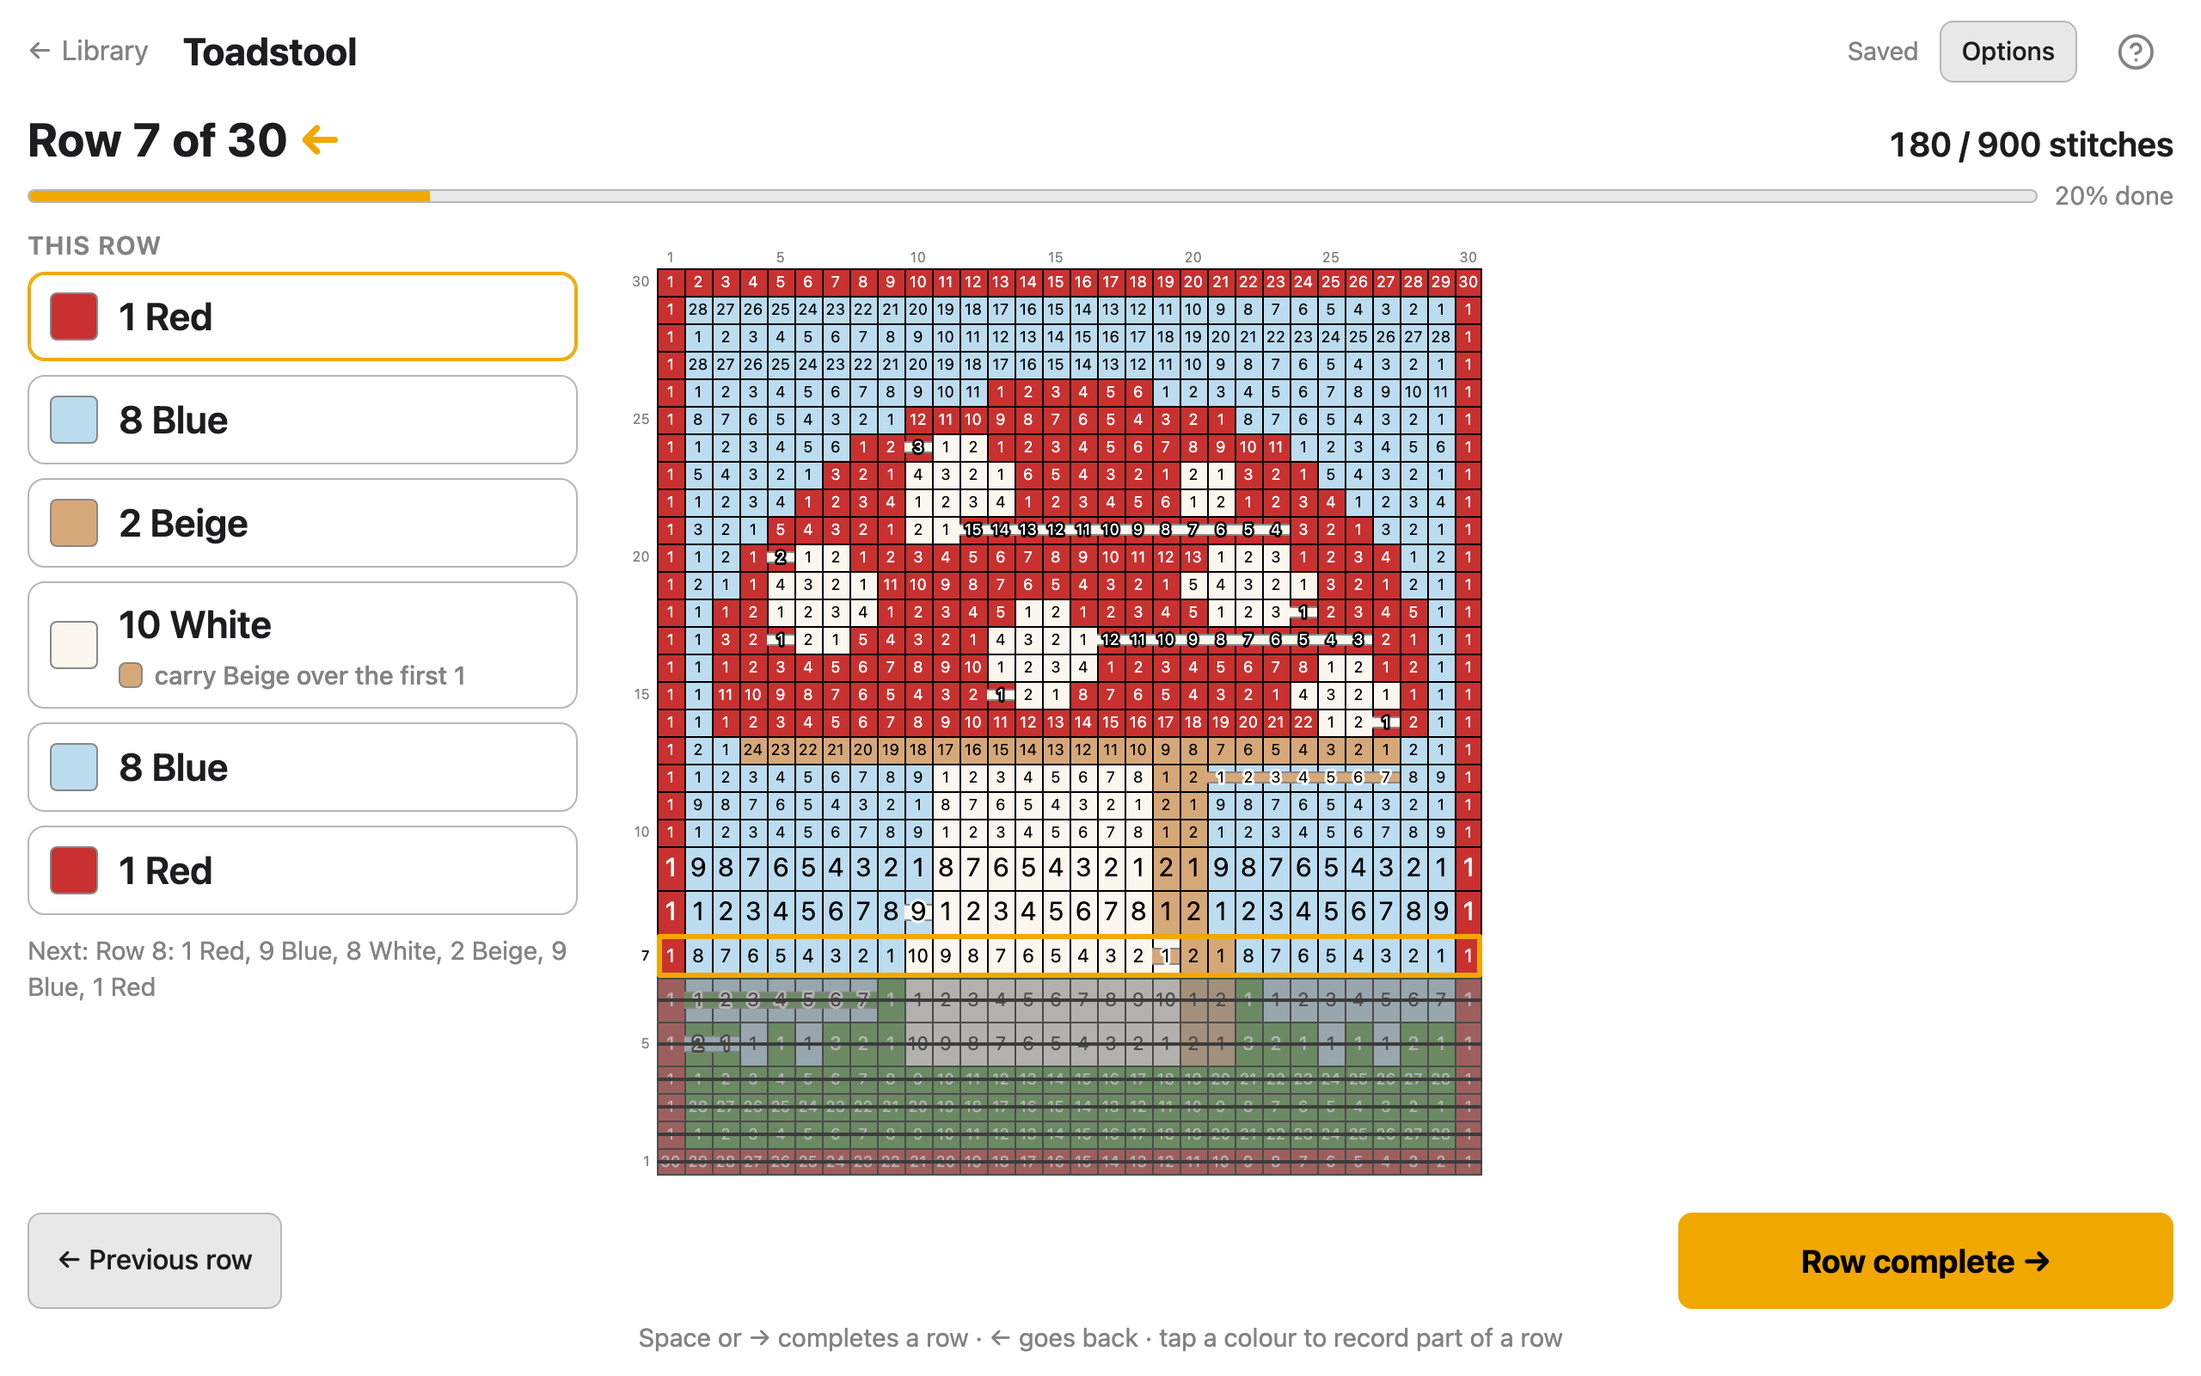
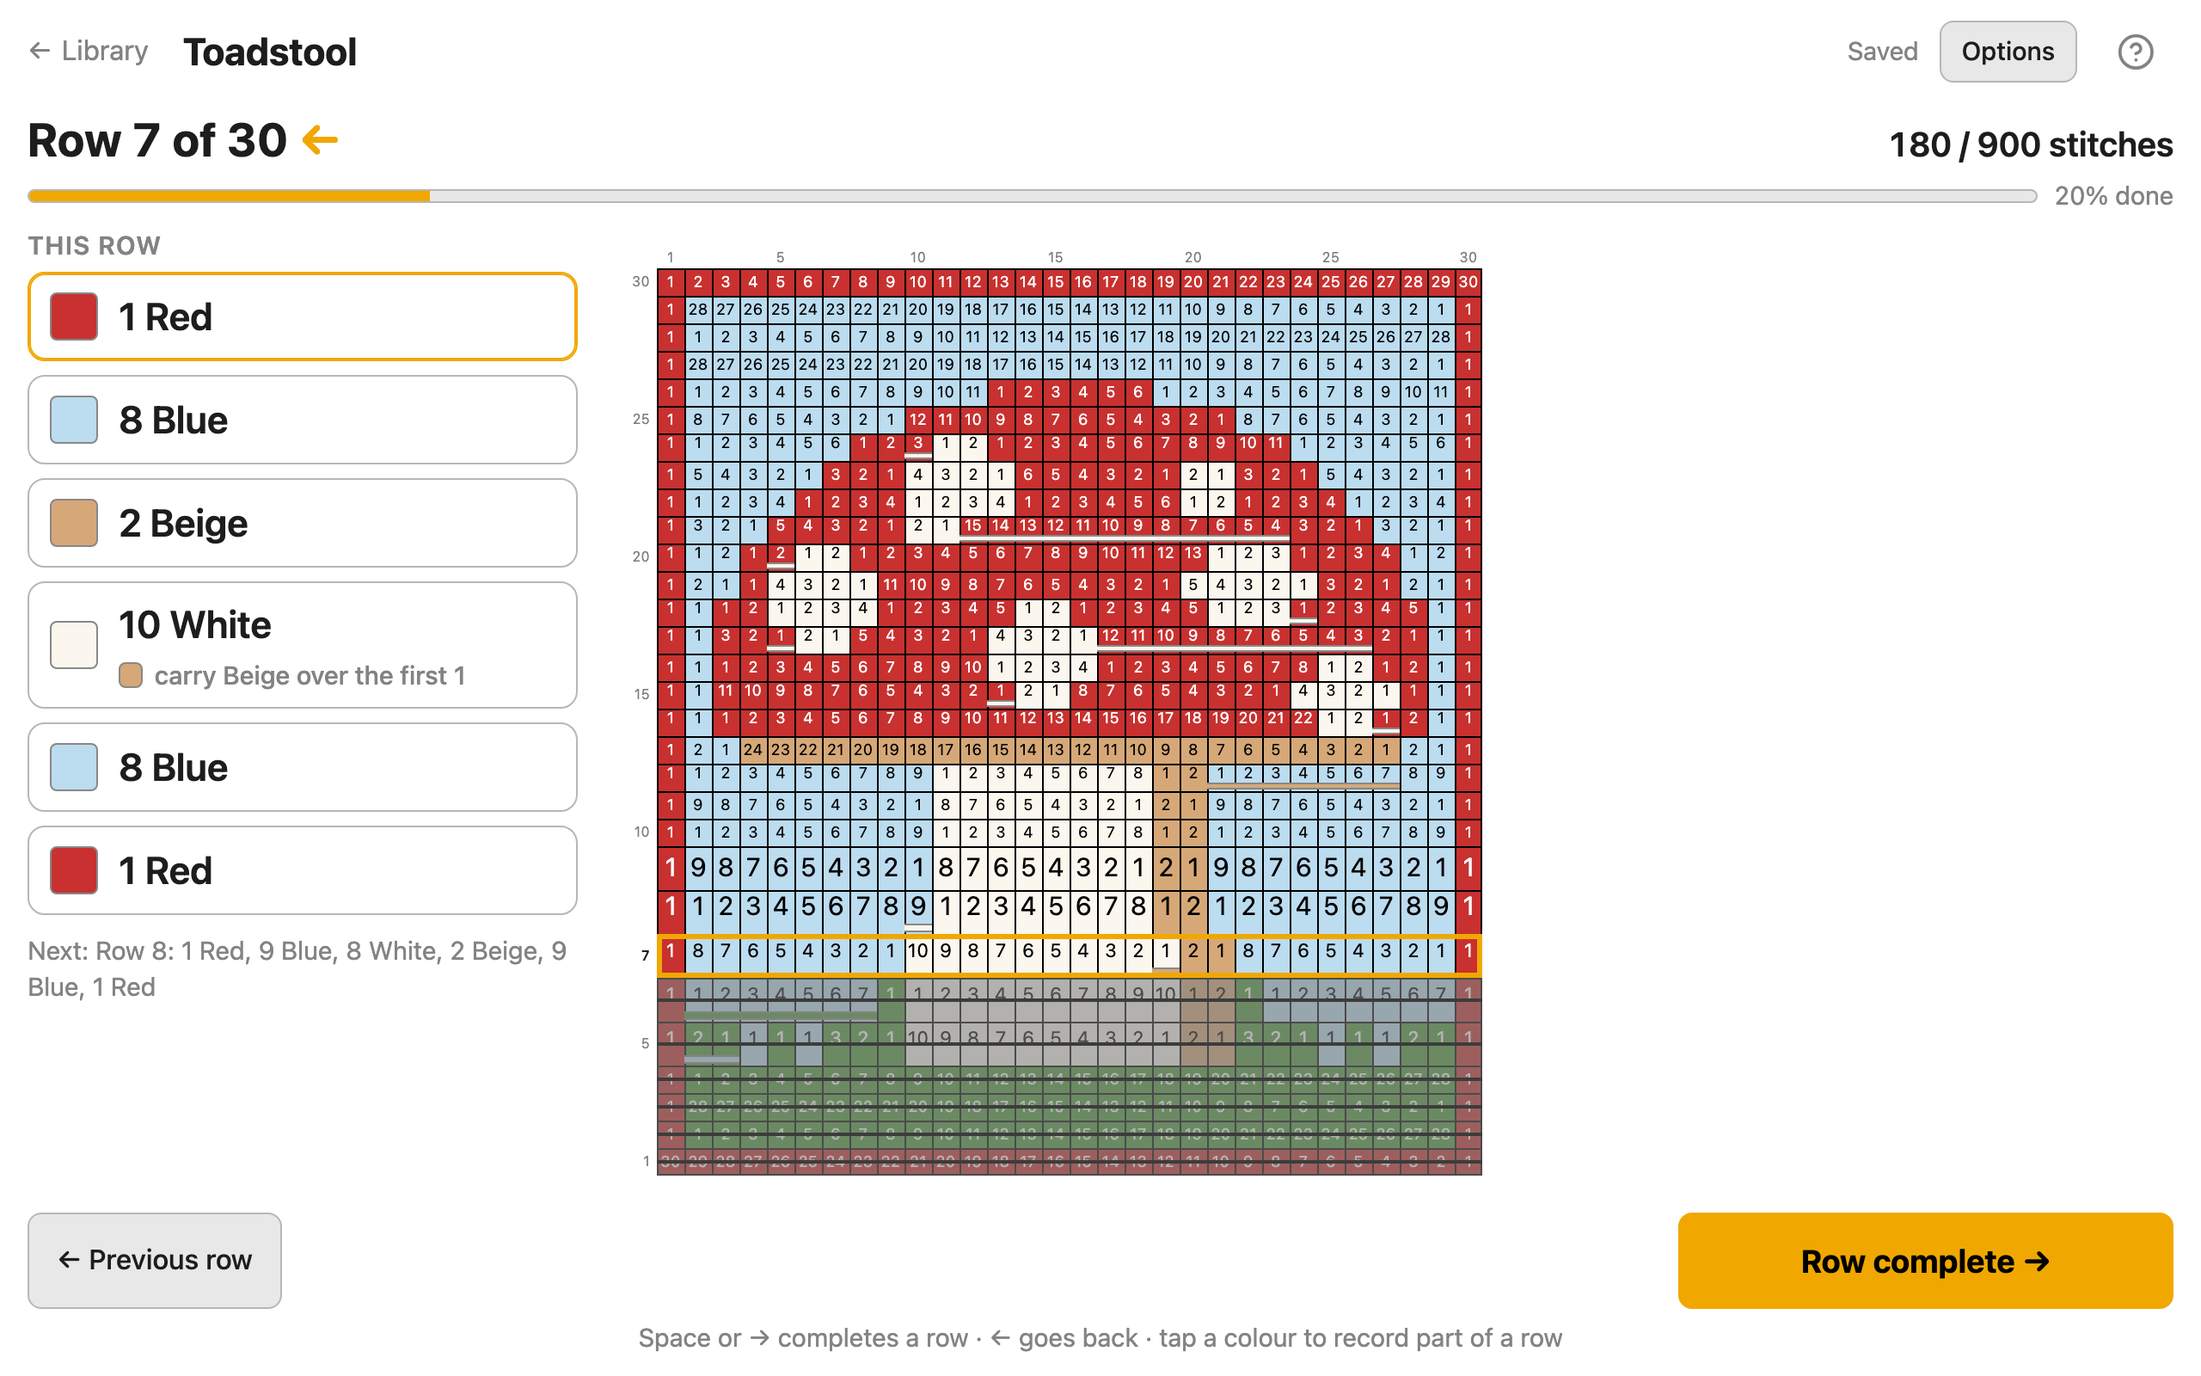
Work: carried strands along the foot of numbered stitches
With stitch numbers on, a strand drawn through the middle of a stitch
covered its number; the first fix outlined those numbers, which read but
looked busy. Now a numbered row's strands lie in a strip along the bottom
of the stitches (2-4 px each, where the strand sits as you crochet over
it) and the numbers are centred above, at the same size as in rows
without strands while the digits still clear the strip. Where they
can't, the strands stay in the middle and the stitches they cross go
without a number: the strand is the instruction.

diff --git a/web/src/render/chart.ts b/web/src/render/chart.ts
@@ -155,9 +155,31 @@ export function carryEdge(hex: string): string {
   }
 }
 
-/** Each carried strand as a band of its colour along the middle of the stitches it's
- *  carried in, open at the ends, so it runs on out of the colour's own stitches. Several
- *  strands in one row are stacked, one lane per colour. */
+/** How thick each strand is, and how much of the bottom of the row the strands take,
+ *  when they're drawn along the foot of the stitches under the stitch numbers: about an
+ *  eighth of the row each, 2 to 4 px, one lane per colour, each with its 1 px edges. */
+export function carryStrip(h: number, lanes: number): { thickness: number; height: number } {
+  const thickness = Math.max(2, Math.min(4, Math.round(h * 0.12)))
+  return { thickness, height: lanes * (thickness + 2) + 1 }
+}
+
+/** Where row `i`'s strands go: along the foot of its stitches (returning the strip's
+ *  height) when it's numbered and a number still fits above them, or 0 for through the
+ *  middle, as without numbers. */
+function footStrip(d: DrawInput, i: number): number {
+  const l = d.layout
+  const row = d.carries?.[l.range.start + i]
+  const h = l.heights[i]!
+  if (!d.numbers || !row?.length || h < CARRY_MIN_ROW) return 0
+  const strip = carryStrip(h, new Set(row.map((c) => c.palette_index)).size).height
+  return numberFont(l.cell, h, 1, strip) > 0 ? strip : 0
+}
+
+/** Each carried strand as a band of its colour through the stitches it's carried in,
+ *  open at the ends, so it runs on out of the colour's own stitches. Several strands in
+ *  one row are stacked, one lane per colour. Through the middle of the stitches; or, in a
+ *  numbered row, along their foot, under the numbers, where the strand lies as you work
+ *  over it. */
 function drawCarries(
   ctx: CanvasRenderingContext2D,
   d: DrawInput,
@@ -173,12 +195,17 @@ function drawCarries(
     const h = l.heights[i]!
     if (!row?.length || h < CARRY_MIN_ROW) continue
     const lanes = [...new Set(row.map((c) => c.palette_index))]
+    const foot = footStrip(d, i) > 0
     // About a third of the row, and never so thick that the lanes, each with its 1 px
     // edges, overflow it.
-    const t = Math.min(Math.max(2, Math.min(8, Math.round(h * 0.3))), Math.floor((h - 2) / lanes.length) - 2)
+    const t = foot
+      ? carryStrip(h, lanes.length).thickness
+      : Math.min(Math.max(2, Math.min(8, Math.round(h * 0.3))), Math.floor((h - 2) / lanes.length) - 2)
     if (t < 1) continue
     const pitch = t + 2
-    const top = oy + l.offsets[i]! + h / 2 - (lanes.length * pitch - 2) / 2
+    const top = foot
+      ? oy + l.offsets[i]! + h - carryStrip(h, lanes.length).height + 1
+      : oy + l.offsets[i]! + h / 2 - (lanes.length * pitch - 2) / 2
     for (const c of row) {
       const hex = pattern.palette[c.palette_index]?.hex ?? '#c8c8c8'
       const x = ox + c.from * l.cell
@@ -212,16 +239,20 @@ export function stitchNumbers(p: Pattern, r: number): Uint16Array {
  *  cell is left plain. */
 export const NUMBER_MIN_FONT = 8
 
+/** How tall a numeral's ink is, for its font size: digits stand about ¾ of the em. */
+const DIGIT_HEIGHT = 0.75
+
 /** The font size a number of `digits` digits gets in a cell `w` wide and `h` tall, or 0
- *  when it wouldn't be readable there. */
-export function numberFont(w: number, h: number, digits: number): number {
-  const fs = Math.floor(Math.min(h * 0.6, (w * 0.85) / (0.6 * digits), 16))
+ *  when it wouldn't be readable there. With `foot` px of the cell taken by strands along
+ *  its bottom, the size stays the cell's own as long as the digits still clear them. */
+export function numberFont(w: number, h: number, digits: number, foot = 0): number {
+  const fs = Math.floor(Math.min(h * 0.6, (h - foot - 1) / DIGIT_HEIGHT, (w * 0.85) / (0.6 * digits), 16))
   return fs >= NUMBER_MIN_FONT ? fs : 0
 }
 
-/** The stitch numbers, in black or white, whichever reads on the stitch's colour. Where a
- *  carried strand runs through the stitch, its number is outlined in the other one, so it
- *  reads on the strand's colour too. */
+/** The stitch numbers, in black or white, whichever reads on the stitch's colour. In a
+ *  row with strands along its foot, they're centred in the space above them; where the
+ *  strands run through the middle, the stitches they cross get none. */
 function drawNumbers(ctx: CanvasRenderingContext2D, d: DrawInput, from: number, to: number, c0: number, c1: number, ox: number, oy: number): void {
   const { layout: l, pattern } = d
   const ink = pattern.palette.map((e) => {
@@ -235,38 +266,33 @@ function drawNumbers(ctx: CanvasRenderingContext2D, d: DrawInput, from: number, 
   ctx.textBaseline = 'middle'
   for (let i = from; i < to; i++) {
     const h = l.heights[i]!
+    const foot = footStrip(d, i)
     // Not even one digit fits: nothing in this row will.
-    if (numberFont(l.cell, h, 1) === 0) continue
+    if (numberFont(l.cell, h, 1, foot) === 0) continue
     const r = l.range.start + i
     const nums = stitchNumbers(pattern, r)
-    const mid = oy + l.offsets[i]! + h / 2
+    const mid = oy + l.offsets[i]! + (h - foot) / 2
+    // Strands that stay through the middle (no room at the foot) would cover a number:
+    // the strand is the instruction, so those stitches go without.
+    const covered = new Uint8Array(pattern.cols)
+    if (foot === 0 && h >= CARRY_MIN_ROW) for (const k of d.carries?.[r] ?? []) covered.fill(1, k.from, k.to)
     // One size for the whole row, set by its longest number, so a 10 isn't smaller than
     // the 9 beside it; only where that one can't fit at all does each number fit itself.
-    const carried = new Set<number>()
-    for (const k of d.carries?.[r] ?? []) for (let c = k.from; c < k.to; c++) carried.add(c)
     let longest = 0
     for (let c = c0; c < c1; c++) longest = Math.max(longest, nums[c]!)
-    const rowFont = numberFont(l.cell, h, String(longest).length)
+    const rowFont = numberFont(l.cell, h, String(longest).length, foot)
     let font = 0
     for (let c = c0; c < c1; c++) {
       const n = nums[c]!
-      if (n === 0) continue
-      const fs = rowFont || numberFont(l.cell, h, String(n).length)
+      if (n === 0 || covered[c]) continue
+      const fs = rowFont || numberFont(l.cell, h, String(n).length, foot)
       if (fs === 0) continue
       if (fs !== font) {
         ctx.font = `${fs}px ${d.colors.fontFamily}`
         font = fs
       }
-      const fill = ink[pattern.cells[r * pattern.cols + c]!] ?? '#000000'
-      const x = ox + c * l.cell + l.cell / 2
-      if (carried.has(c)) {
-        ctx.strokeStyle = fill === '#000000' ? '#ffffff' : '#000000'
-        ctx.lineWidth = 3
-        ctx.lineJoin = 'round'
-        ctx.strokeText(String(n), x, mid)
-      }
-      ctx.fillStyle = fill
-      ctx.fillText(String(n), x, mid)
+      ctx.fillStyle = ink[pattern.cells[r * pattern.cols + c]!] ?? '#000000'
+      ctx.fillText(String(n), ox + c * l.cell + l.cell / 2, mid)
     }
   }
 }
@@ -319,8 +345,7 @@ export function drawChart(ctx: CanvasRenderingContext2D, d: DrawInput): void {
   ctx.fill()
 
   if (d.carries) drawCarries(ctx, d, d.carries, from, to, ox, oy)
-  // Over the strands, which run through the middle of the stitches where the numbers sit,
-  // and under the done wash, which fades them with the rest of a finished row.
+  // Under the done wash, which fades them with the rest of a finished row.
   if (d.numbers) drawNumbers(ctx, d, from, to, c0, c1, ox, oy)
 
   const markDone = (i: number, x: number, w: number) => {

diff --git a/web/tests/render/chart.test.ts b/web/tests/render/chart.test.ts
@@ -7,6 +7,7 @@ import {
   GRID_COLOR,
   NUMBER_MIN_FONT,
   bands,
+  carryStrip,
   carryEdge,
   cellPixels,
   drawChart,
@@ -287,20 +288,57 @@ describe('drawChart', () => {
     expect(new Set(current.map((c) => c.font))).toEqual(new Set([`${two}px sans-serif`]))
   })
 
-  it('outlines the numbers of stitches a strand is carried in, over the strand, and no others', () => {
+  it('in a numbered row, lays the strands along the foot of the stitches, under numbers of the usual size', () => {
     const p = pattern(10, 10, Array.from({ length: 100 }, () => 0))
     const layout = computeLayout({ rows: 10, cols: 10, current: 9, emphasise: false, focus: false, width: 240, height: 228 })
+    const h = layout.heights[4]!
     const carries = Array.from({ length: 10 }, () => [] as { palette_index: number; from: number; to: number; kind: 'on' | 'pickup' }[])
     carries[4] = [{ palette_index: 1, from: 2, to: 5, kind: 'on' }]
+    const draw = (numbers: boolean) => {
+      const { ctx, calls } = recorder()
+      drawChart(ctx, { layout, image: {} as CellImage, pattern: p, completed: new Set(), carries, numbers, scrollX: 0, scrollY: 0, width: 240, height: 228, dpr: 1, colors })
+      return calls
+    }
+    const rowTop = AXIS_TOP + layout.offsets[4]!
+    const strand = (calls: ReturnType<typeof draw>) => calls.find((c) => c.op === 'fillRect' && c.fillStyle === '#00ff00')!.args as number[]
+
+    // Without numbers: through the middle, as before.
+    const [, my, , mt] = strand(draw(false))
+    expect(my! + mt! / 2).toBeCloseTo(rowTop + h / 2, 0)
+
+    // With them: in the strip at the bottom, and the row's numbers centred above it.
+    const calls = draw(true)
+    const { thickness, height } = carryStrip(h, 1)
+    const [, y, , t] = strand(calls)
+    expect(t).toBe(thickness)
+    // Its lower edge ends a pixel short of the gridline under the row.
+    expect(y! + t! + 1).toBeCloseTo(rowTop + h - 1, 0)
+    const row4 = calls.filter((c) => c.op === 'fillText' && c.fillStyle === '#ffffff' && (c.args[2] as number) < rowTop + h && (c.args[2] as number) > rowTop)
+    expect(row4).toHaveLength(10)
+    for (const c of row4) expect(c.args[2]).toBeCloseTo(rowTop + (h - height) / 2)
+    // The same size as a row with no strands, and the digits clear the strip.
+    const fs = numberFont(layout.cell, h, 1)
+    expect(new Set(row4.map((c) => c.font))).toEqual(new Set([`${fs}px sans-serif`]))
+    expect(rowTop + (h - height) / 2 + (0.75 * fs) / 2).toBeLessThanOrEqual(y! - 1)
+  })
+
+  it('leaves the number off a stitch whose strand has to stay in the middle', () => {
+    // A 14 px row with three strands: no room at the foot.
+    const p = pattern(1, 4, [0, 0, 0, 0])
+    const layout = { ...computeLayout({ rows: 1, cols: 4, current: 0, emphasise: false, focus: false, width: 200, height: 228 }) }
+    const l = { ...layout, cell: 24, heights: [14], offsets: [0, 14], gridWidth: 96, gridHeight: 14 }
+    const carries = [[0, 1, 2].map((k) => ({ palette_index: k, from: 1, to: 3, kind: 'on' as const }))]
     const { ctx, calls } = recorder()
-    drawChart(ctx, { layout, image: {} as CellImage, pattern: p, completed: new Set(), carries, numbers: true, scrollX: 0, scrollY: 0, width: 240, height: 228, dpr: 1, colors })
-    const halos = calls.filter((c) => c.op === 'strokeText')
-    // Red stitches take white numbers, so the outline is black; across columns 3 to 5.
-    expect(halos.map((c) => c.strokeStyle)).toEqual(['#000000', '#000000', '#000000'])
-    const x = (col: number) => AXIS_LEFT + col * layout.cell + layout.cell / 2
-    expect(halos.map((c) => c.args[1])).toEqual([x(2), x(3), x(4)])
-    // After the strand, so they sit on it.
-    expect(calls.findIndex((c) => c.op === 'strokeText')).toBeGreaterThan(calls.findIndex((c) => c.op === 'fillRect' && c.fillStyle === '#00ff00'))
+    drawChart(ctx, { layout: l, image: {} as CellImage, pattern: p, completed: new Set(), carries, numbers: true, scrollX: 0, scrollY: 0, width: 200, height: 228, dpr: 1, colors })
+    const xs = calls.filter((c) => c.op === 'fillText' && c.fillStyle === '#ffffff').map((c) => c.args[1])
+    expect(xs).toEqual([AXIS_LEFT + 12, AXIS_LEFT + 3 * 24 + 12])
+  })
+
+  it('keeps the strands through the middle where a number wouldn’t clear them at the foot', () => {
+    expect(numberFont(24, 24, 1, carryStrip(24, 1).height)).toBe(numberFont(24, 24, 1))
+    // Three strands at once in a 14 px row: no room above them.
+    expect(numberFont(24, 14, 1, carryStrip(14, 3).height)).toBe(0)
+    expect(numberFont(24, 14, 1, carryStrip(14, 1).height)).toBeGreaterThanOrEqual(NUMBER_MIN_FONT)
   })
 
   it('draws no stitch numbers where the cells are too small to hold one', () => {

diff --git a/docs/dev/areas/work.md b/docs/dev/areas/work.md
@@ -24,7 +24,8 @@ Newest last, as they were built.
   anyway), a colour missing from the next row is dropped, and when rows don't alternate
   a strand the next row needs behind it gets no suggestion (it can't be reached without a
   float). The chart draws each strand as a band of its colour through the middle of the
-  stitches it's carried in (rows under 6 px tall get none), and each chip of the current
+  stitches it's carried in (rows under 6 px tall get none), or along their foot when
+  they're numbered (see [Stitch numbers](#stitch-numbers)), and each chip of the current
   row says "carry Black over the first 2" or "pick up Black, carry over the last 3". Not
   in the Python: the desktop never showed it, and it only reads the pattern. Tested
   against the strands themselves: over 800 random patterns, every strand enters a row
@@ -70,9 +71,16 @@ Newest last, as they were built.
   `settings.stitchNumbers`). Every stitch on the chart shows its place in its run of one
   colour, counted in the row's working direction (`encodeRow` and `rowDirection`, so it
   agrees with the chips), from 1 at the start of each run. Skipped cells get none.
-  - Drawn per frame for the visible cells, over the strands and under the done wash, in
-    black or white by `contrastOn` of the stitch's colour. A number in a stitch a strand
-    is carried in is outlined in the other one, or a white strand hides a white numeral.
+  - Drawn per frame for the visible cells, under the done wash, in black or white by
+    `contrastOn` of the stitch's colour.
+  - With carry hints on, a numbered row's strands move from the middle of the stitches,
+    where they covered the numbers, to a strip along their foot (`carryStrip`: 2 to 4 px
+    per strand), and the numbers are centred above it. They keep the size of a row
+    without strands as long as the digits (about ¾ of the font size, `DIGIT_HEIGHT`)
+    clear the strip, which they do on a plain 14 px row with one strand. Where they
+    can't, the strands stay in the middle and the stitches they cross get no number:
+    the strand is the instruction, so it is never the one hidden. An outline round
+    the numbers over a middle strand was tried first; it was legible but busy.
   - One font size per row, set by its longest number (so a 10 isn't smaller than the 9
     beside it), at most 16 px; under `NUMBER_MIN_FONT` (8 px) the cell stays plain, so a
     big chart shows numbers only on its taller rows, or once zoomed in.

diff --git a/docs/guide/work.md b/docs/guide/work.md
@@ -92,7 +92,8 @@ rather than left hanging at the back, turn on **Show where to carry yarn** in **
 
 Each colour is kept only until the next row needs it, so you never carry more than you
 must. On the chart, a line of a colour through a run of stitches means: carry that colour
-inside those stitches. In **This row**, a colour's chip says what to do while you work it,
+inside those stitches. With [stitch numbers](#count-stitches-on-the-chart) on, the line
+runs along the bottom of each stitch, under its number. In **This row**, a colour's chip says what to do while you work it,
 such as "carry Beige over the first 1", or "pick up Black, carry over the last 3".
 
 ## Count stitches on the chart
